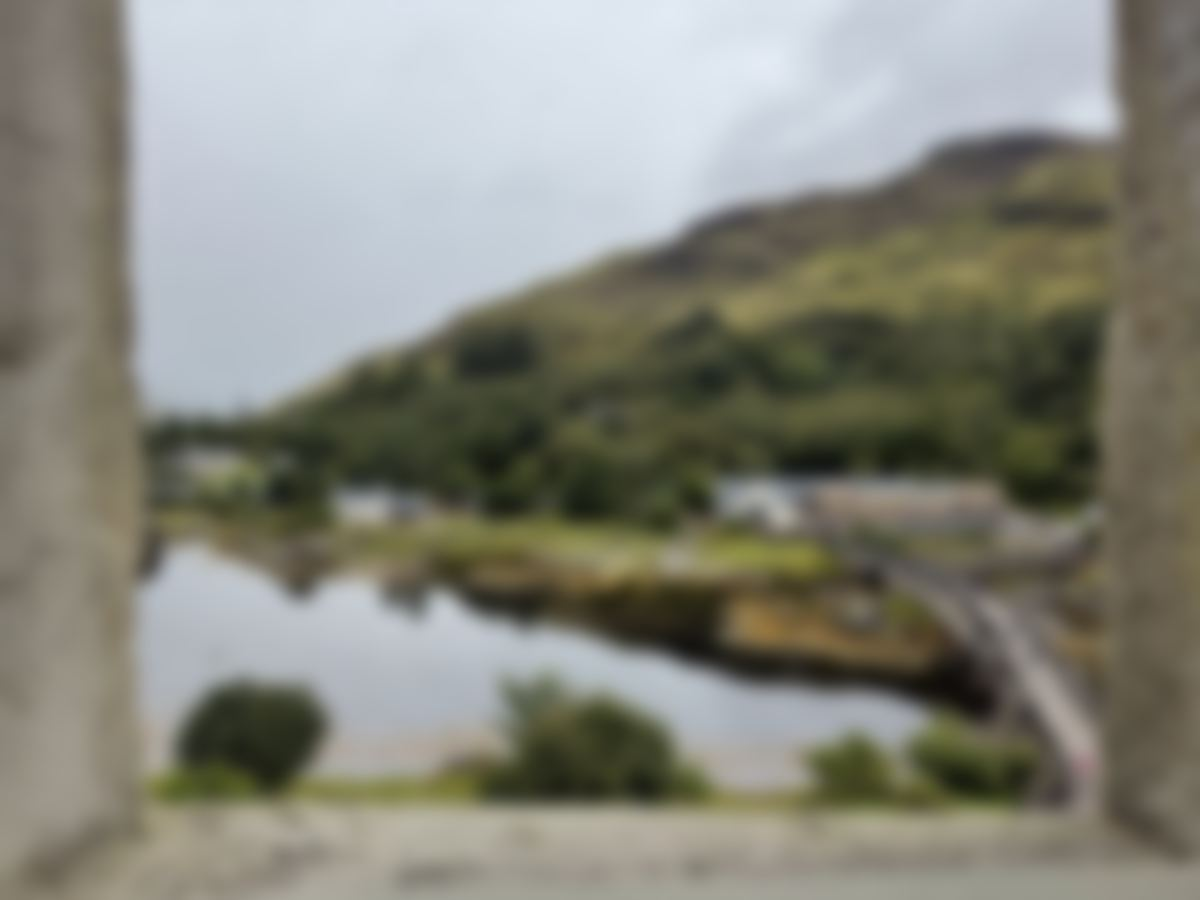
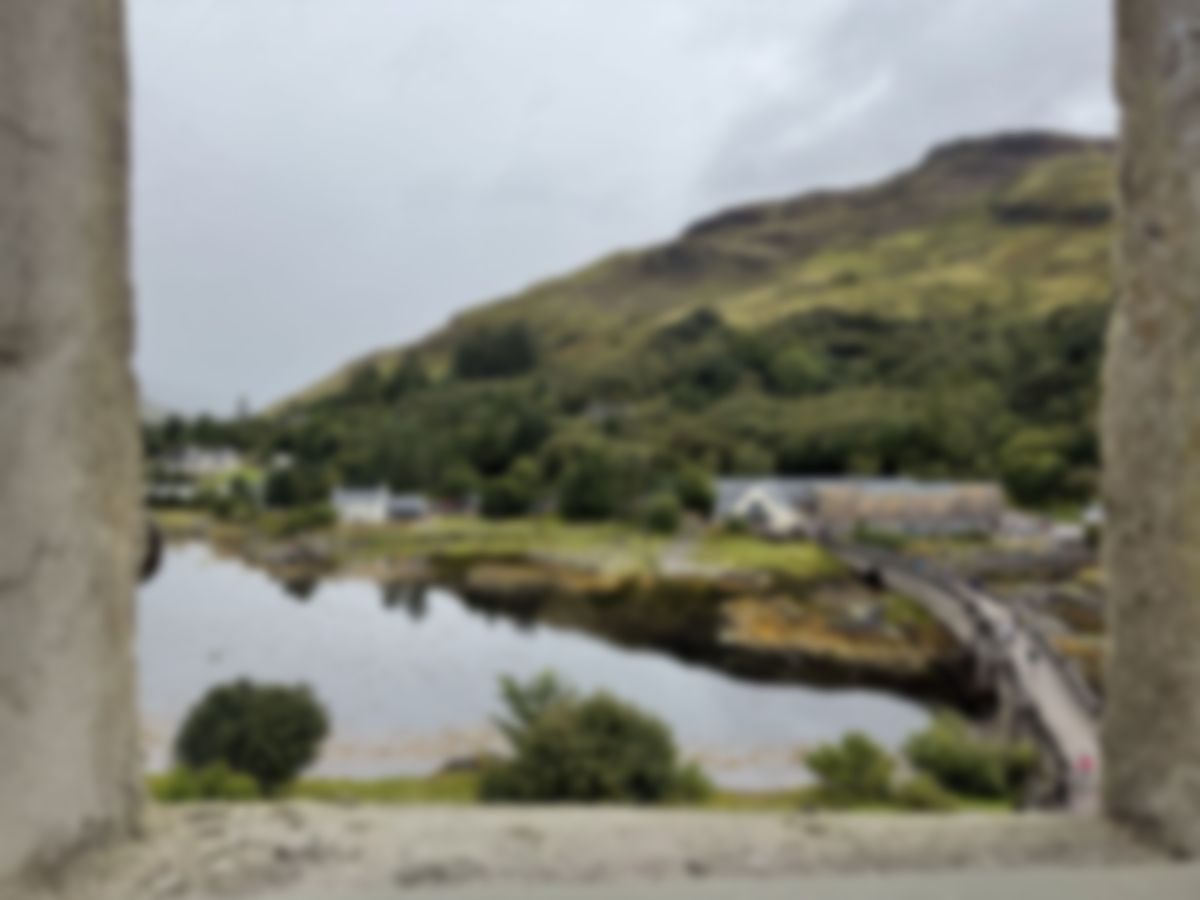
What I Do: lighter, tighter glass panel; bolder headings
Reduce panel padding and frost, set section headings in black bold, job
titles and Microsoft Research in semi-bold, and unlink Microsoft
Research.

diff --git a/assets/css/custom.css b/assets/css/custom.css
@@ -1,3 +1,6 @@
+/* Semi-bold (600) for job titles; main.css only loads 300 and 900 */
+@import url("https://fonts.googleapis.com/css?family=Source+Sans+Pro:600&display=swap");
+
 /* Personal tweaks layered on top of Big Picture's main.css.
    Change --accent to recolor the pill buttons and highlights everywhere. */
 
@@ -45,7 +48,7 @@
 	}
 
 /* What I Do: photo background with the text on a frosted-glass panel.
-   Raise the panel's white (0.66 desktop / 0.72 phone) for more legibility,
+   Raise the panel's white (0.52 desktop / 0.66 phone) for more legibility,
    lower it to show more photo. */
 
 	#workexp {
@@ -57,12 +60,12 @@
 	}
 
 		#workexp > .content {
-			width: 52em;
-			padding: 3em 3.5em;
-			border-radius: 18px;
-			background: rgba(255, 255, 255, 0.72);
-			-webkit-backdrop-filter: blur(14px) saturate(120%);
-			backdrop-filter: blur(14px) saturate(120%);
+			width: 49em;
+			padding: 1.75em 2em;
+			border-radius: 16px;
+			background: rgba(255, 255, 255, 0.66);
+			-webkit-backdrop-filter: blur(8px) saturate(120%);
+			backdrop-filter: blur(8px) saturate(120%);
 			border: 1px solid rgba(255, 255, 255, 0.55);
 			box-shadow: 0 10px 40px rgba(0, 0, 0, 0.18);
 		}
@@ -71,7 +74,7 @@
 		   panel (both are fixed to the window), so the glass works in every browser */
 		body:not(.is-touch) #workexp > .content {
 			background:
-				linear-gradient(rgba(255, 255, 255, 0.66), rgba(255, 255, 255, 0.66)),
+				linear-gradient(rgba(255, 255, 255, 0.52), rgba(255, 255, 255, 0.52)),
 				url("../../images/scotland-blur.jpg") center center / cover fixed no-repeat;
 			-webkit-backdrop-filter: none;
 			backdrop-filter: none;
@@ -85,13 +88,24 @@
 			color: #33373d;
 		}
 
-		#workexp .entries ul.bullets {
-			color: #4a4e55;
+		#workexp .entries ul.bullets,
+		#workexp .dates {
+			color: #44484f;
+		}
+
+		#workexp .entries h3 {
+			color: #111111;
+			font-weight: 900;
+		}
+
+		#workexp .role {
+			font-weight: 600;
+			color: #111111;
 		}
 
 	@media screen and (max-width: 736px) {
 		#workexp > .content {
-			padding: 2em 1.25em;
+			padding: 1.5em 1em;
 		}
 	}
 

diff --git a/index.html b/index.html
@@ -83,7 +83,7 @@
 						<h3>Work Experience</h3>
 						<ul>
 							<li>
-								<strong>Research Intern</strong>, <a href="https://www.microsoft.com/en-us/research/lab/microsoft-research-cambridge/">Microsoft Research</a>, Cambridge, UK
+								<strong class="role">Research Intern</strong>, <strong class="role">Microsoft Research</strong>, Cambridge, UK
 								<span class="dates">May 2026 – Aug 2026</span>
 								<ul class="bullets">
 									<li>Fault tolerance for disaggregated decode: the impact of network link and device failures on decode throughput and tail latencies.</li>
@@ -91,7 +91,7 @@
 								</ul>
 							</li>
 							<li>
-								<strong>Research Fellow</strong>, <a href="https://www.microsoft.com/en-us/research/lab/microsoft-research-india/">Microsoft Research</a>, Bangalore, India
+								<strong class="role">Research Fellow</strong>, <strong class="role">Microsoft Research</strong>, Bangalore, India
 								<span class="dates">Jan 2024 – Jul 2025</span>
 								<ul class="bullets">
 									<li>Developed LeanAttention, a hardware-aware scalable attention execution mechanism that accelerates attention by 2.6x over FlashAttention-2</li>
